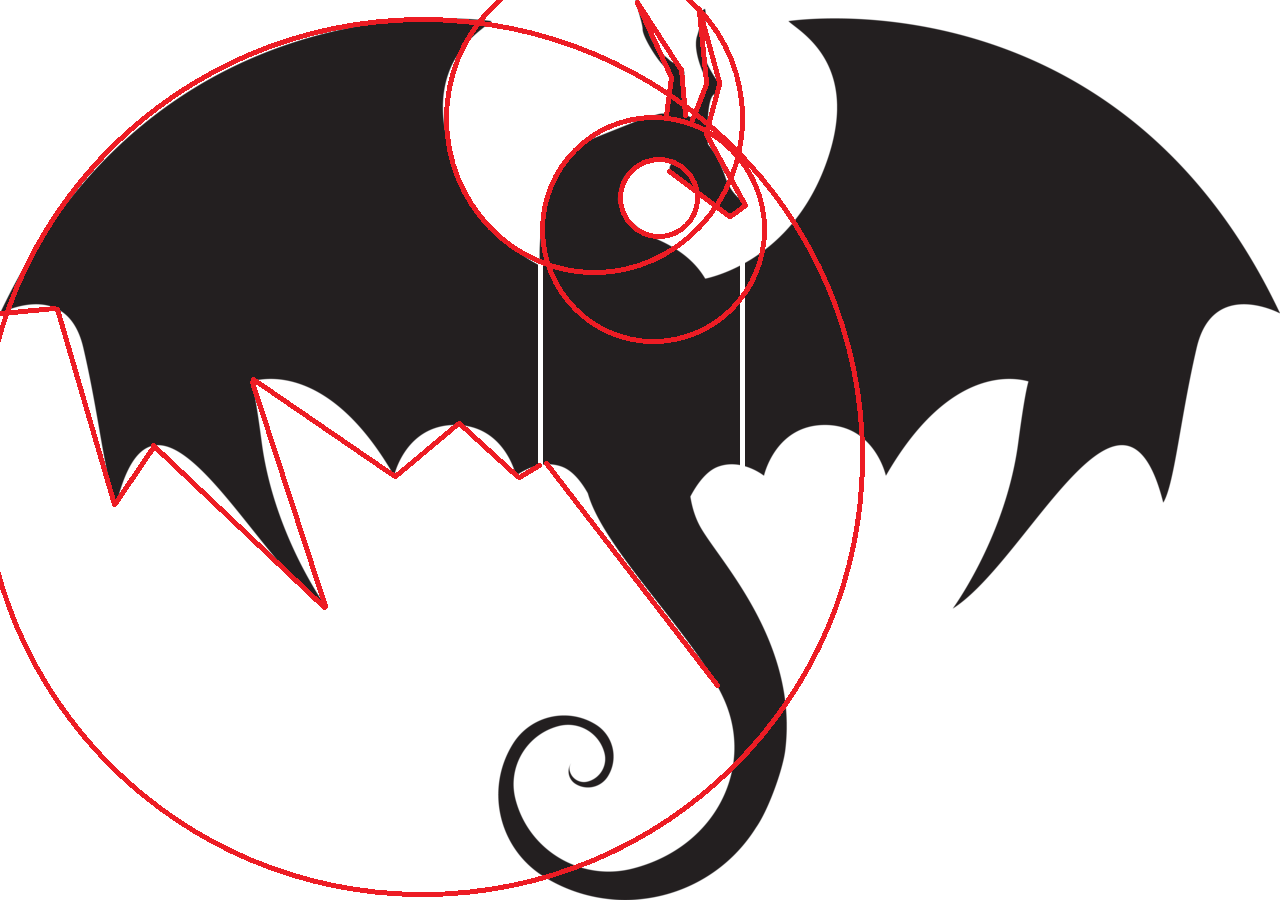
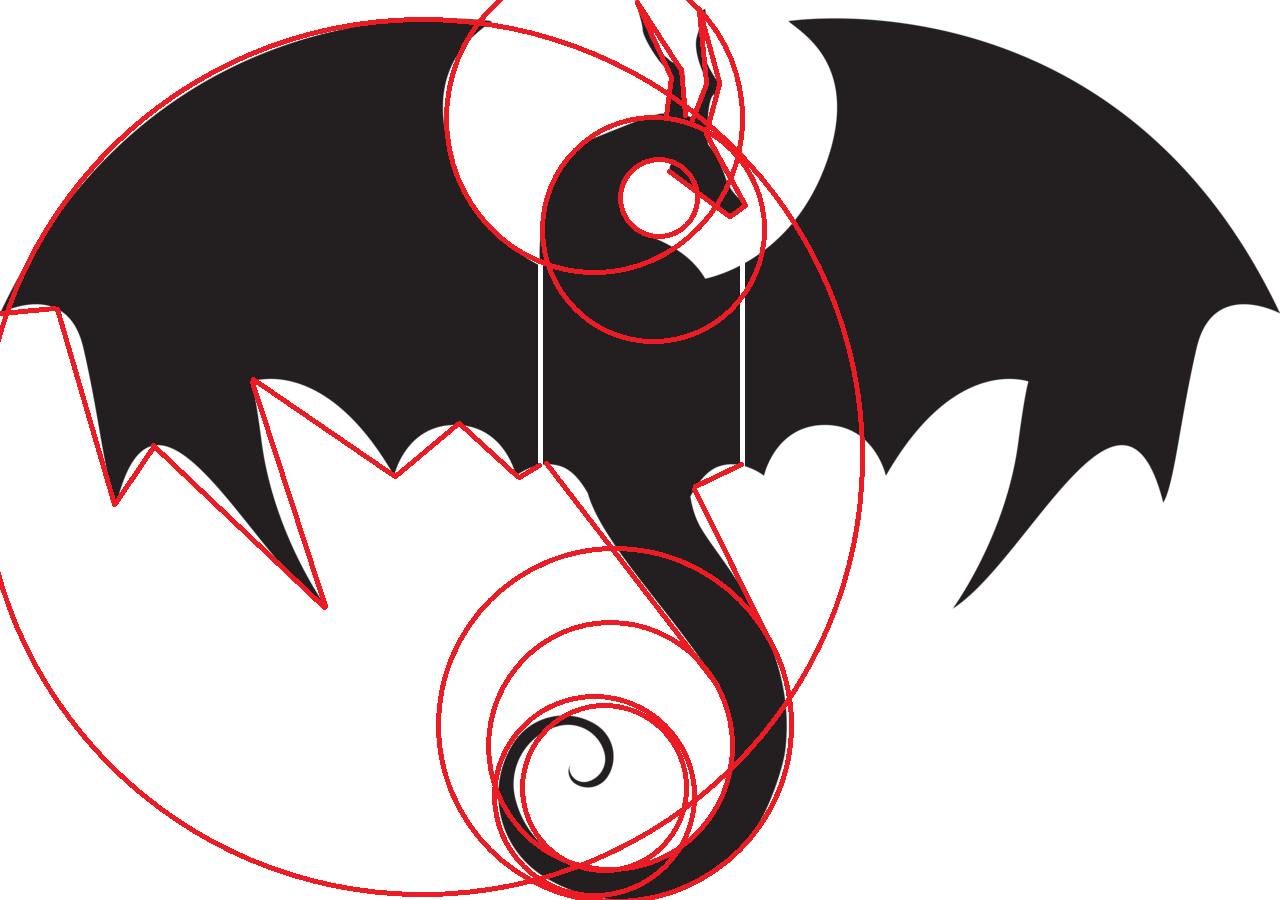
add tail

diff --git a/main.cpp b/main.cpp
@@ -21,6 +21,37 @@ void circle(float x, float y, float r, int anglestart, int anglestop) {
     }
 }
 
+void InverseCircle(float x, float y, float r, int anglestart, int anglestop) {
+    for (int i = anglestart-1;i >= anglestop ;i--) {
+        float degInRad = i*3.14159/180;
+        glColor3f(1, 1, 1);
+        glVertex2f(cos(degInRad)*r + x, sin(degInRad)*r + y);
+    }
+}
+
+void drawDragonTail() {
+    glLineWidth(2.5);
+    glBegin(GL_LINES);
+        glColor3f(1.0, 1.0, 1.0);
+        glVertex2f(-0.18, -0.22);
+        glVertex2f(0, -0.7);
+    glEnd();
+    glBegin(GL_LINE_STRIP);
+        circle(-0.18, -0.7, 0.18, 90, 360);
+    glEnd();
+    glBegin(GL_LINE_STRIP);
+        circle(-0.14, -0.7, 0.25, 180, 360);
+    glEnd();
+    glBegin(GL_LINE_STRIP);
+        circle(-0.19, -0.71, 0.2, 90, 180);
+    glEnd();
+    glBegin(GL_LINES);
+        glVertex2f(0.11, -0.7);
+        glVertex2f(0.05, -0.22);
+
+    glEnd();
+}
+
 void drawDragonHead() {
     glLineWidth(2.5);
     glBegin(GL_LINES);
@@ -83,6 +114,7 @@ void drawDragonHead() {
 void display() {
     glClear(GL_COLOR_BUFFER_BIT);
     drawDragonHead();
+    drawDragonTail();
     glutSwapBuffers();
 }
 
